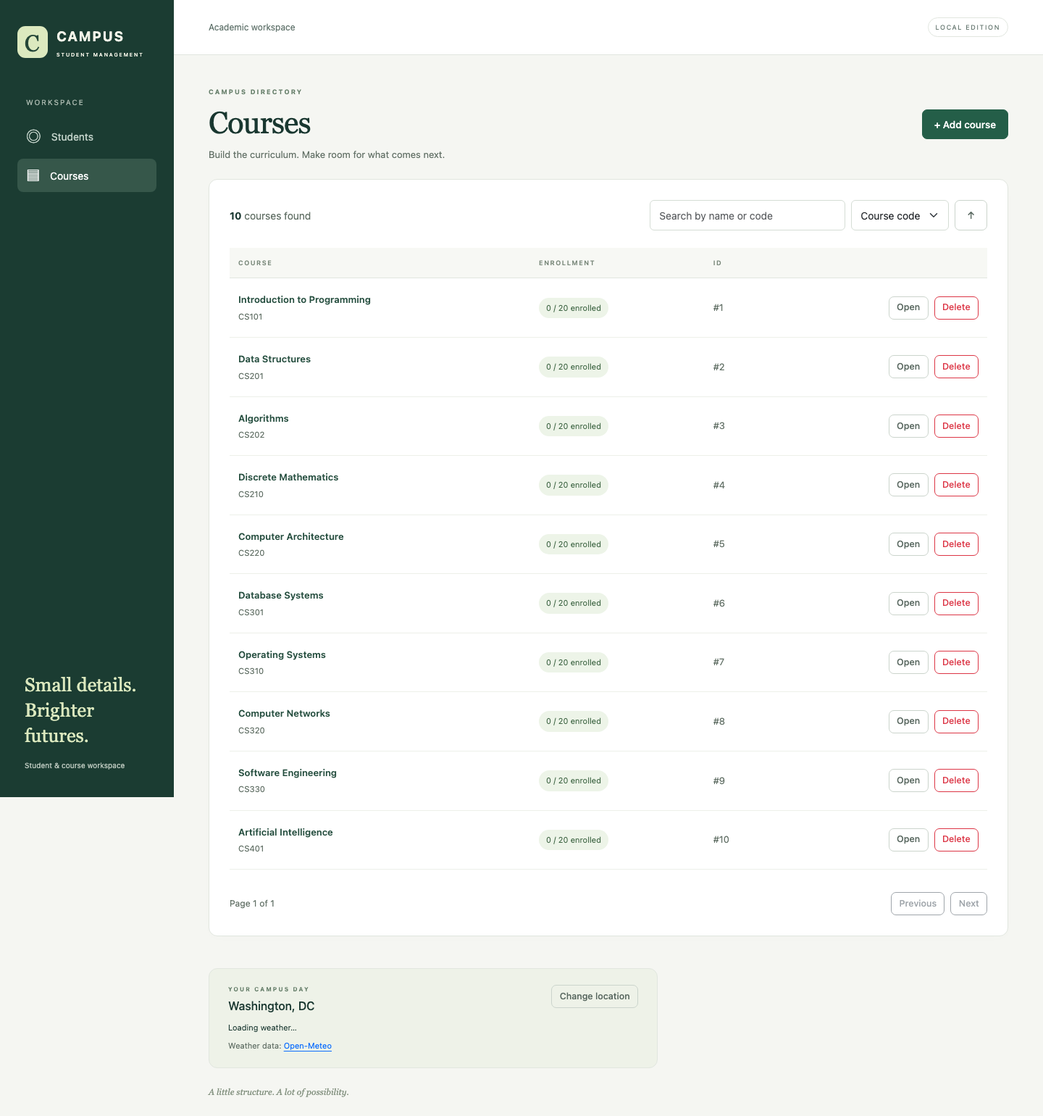
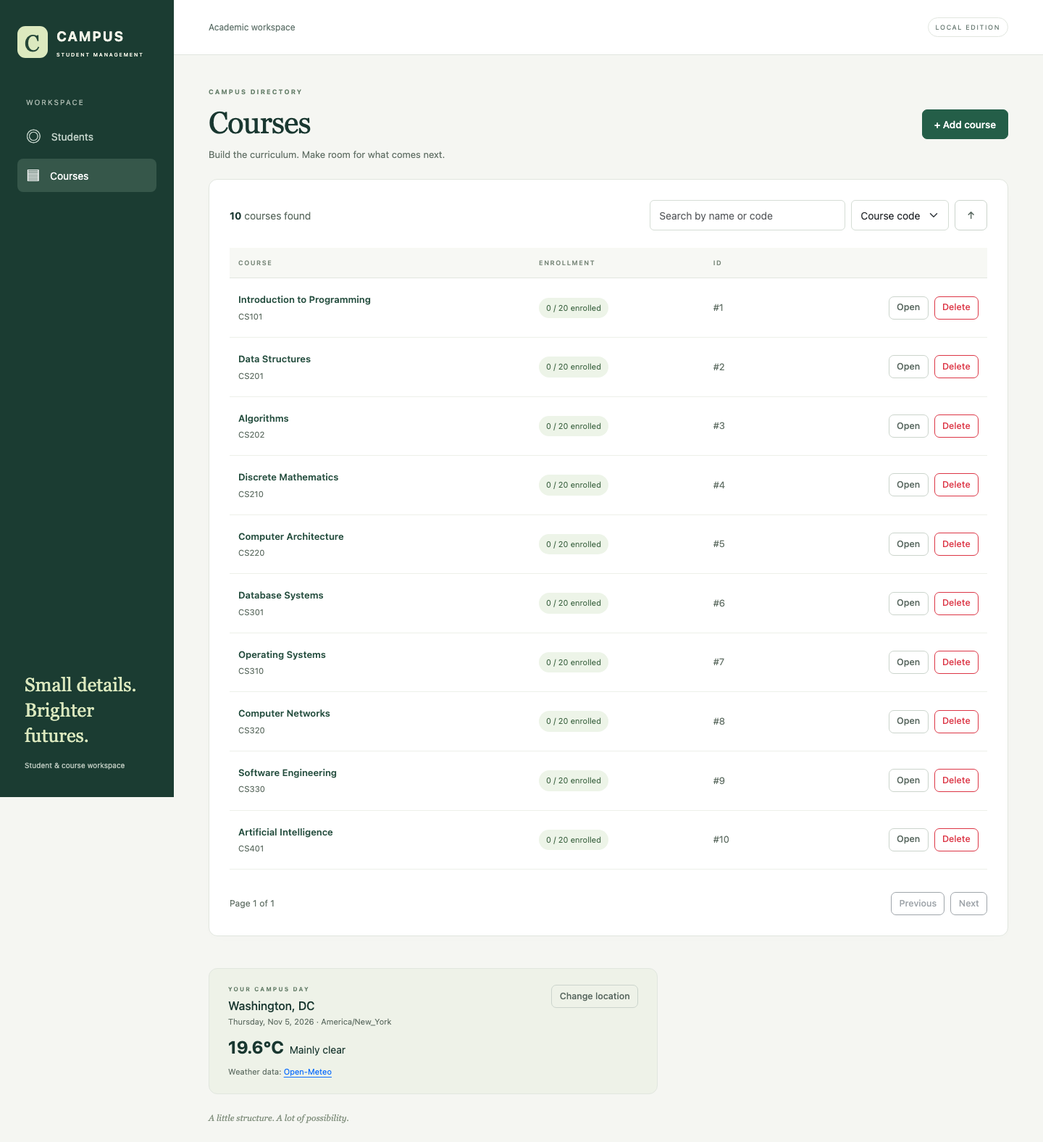
Address independent panel feedback and record final review votes

diff --git a/frontend/e2e/workspace.spec.ts b/frontend/e2e/workspace.spec.ts
@@ -351,3 +351,66 @@ test('a manual city choice wins over an earlier pending browser location request
     page.getByRole('heading', { name: 'Seattle, Washington', exact: true }),
   ).toBeVisible();
 });
+
+test('pending create blocks tab and directory navigation until the response completes', async ({
+  page,
+  request,
+}) => {
+  const stamp = Date.now();
+  const existing = await (
+    await request.post('/api/students', {
+      data: { name: 'Existing work tab', email: `existing-tab${stamp}@example.com` },
+    })
+  ).json();
+  let createdId: number | undefined;
+  let releaseResponse!: () => void;
+  let markRequestReceived!: () => void;
+  const responseGate = new Promise<void>((resolve) => {
+    releaseResponse = resolve;
+  });
+  const requestReceived = new Promise<void>((resolve) => {
+    markRequestReceived = resolve;
+  });
+  await page.route('**/api/students', async (route) => {
+    if (route.request().method() !== 'POST') {
+      await route.continue();
+      return;
+    }
+    const response = await route.fetch();
+    createdId = (await response.json()).id;
+    markRequestReceived();
+    await responseGate;
+    await route.fulfill({ response });
+  });
+  try {
+    await page.goto(`/students/${existing.id}`);
+    await expect(page.getByLabel('Full name')).toHaveValue('Existing work tab');
+    await page.getByRole('link', { name: '← All students' }).click();
+    await page.getByRole('link', { name: '+ Add student' }).click();
+    await page.getByLabel('Full name').fill('Pending create');
+    await page.getByRole('textbox', { name: /^Email/ }).fill(`pending${stamp}@example.com`);
+    await page.getByRole('button', { name: 'Create student', exact: true }).click();
+    await requestReceived;
+    await expect(page.getByRole('button', { name: 'Saving…', exact: true })).toBeDisabled();
+    await expect(page.getByRole('button', { name: 'Close tab', exact: true })).toBeDisabled();
+    await page
+      .getByRole('navigation', { name: 'Open work tabs' })
+      .getByRole('link', { name: 'Existing work tab', exact: true })
+      .click();
+    await expect(page).toHaveURL(/\/students\/new$/);
+    await page
+      .getByRole('navigation', { name: 'Main navigation' })
+      .getByRole('link', { name: 'Students' })
+      .click();
+    await expect(page).toHaveURL(/\/students\/new$/);
+    releaseResponse();
+    await expect(page).toHaveURL(new RegExp(`/students/${createdId}$`));
+    await expect(page.getByLabel('Full name')).toHaveValue('Pending create');
+    await expect(page.getByRole('button', { name: 'Close tab', exact: true })).toBeEnabled();
+    await expect(page.getByRole('button', { name: 'Save changes', exact: true })).toBeDisabled();
+  } finally {
+    releaseResponse();
+    if (createdId !== undefined) await request.delete(`/api/students/${createdId}`);
+    await request.delete(`/api/students/${existing.id}`);
+  }
+});

diff --git a/backend/src/main/java/com/example/students/ManagementService.java b/backend/src/main/java/com/example/students/ManagementService.java
@@ -26,7 +26,9 @@ public class ManagementService {
   }
 
   public PageView<CourseView> courses(String q, Pageable page) {
-    return PageView.of(courses.search(q, page).map(this::view));
+    var result = courses.search(q, page);
+    var counts = courseCounts(result.getContent().stream().map(c -> c.id).toList());
+    return PageView.of(result.map(c -> view(c, counts.getOrDefault(c.id, 0L))));
   }
 
   public StudentView student(Long id) {
@@ -108,12 +110,16 @@ public class ManagementService {
 
   public List<EnrollmentView> studentCourses(Long id) {
     requireStudent(id);
-    return enrollments.findByStudentIdOrderById(id).stream().map(this::view).toList();
+    var result = enrollments.findByStudentIdOrderById(id);
+    var counts = courseCounts(result.stream().map(e -> e.course.id).distinct().toList());
+    return result.stream()
+        .map(e -> view(e, view(e.course, counts.getOrDefault(e.course.id, 0L))))
+        .toList();
   }
 
   public List<EnrollmentView> courseStudents(Long id) {
-    requireCourse(id);
-    return enrollments.findByCourseIdOrderById(id).stream().map(this::view).toList();
+    var course = view(requireCourse(id));
+    return enrollments.findByCourseIdOrderById(id).stream().map(e -> view(e, course)).toList();
   }
 
   private Student requireStudent(Long id) {
@@ -124,12 +130,27 @@ public class ManagementService {
     return courses.findById(id).orElseThrow(() -> DomainException.missing("Course"));
   }
 
+  private Map<Long, Long> courseCounts(List<Long> ids) {
+    if (ids.isEmpty()) return Map.of();
+    Map<Long, Long> counts = new HashMap<>();
+    for (var count : enrollments.countForCourses(ids))
+      counts.put(count.getCourseId(), count.getTotal());
+    return counts;
+  }
+
   private CourseView view(Course c) {
-    return new CourseView(
-        c.id, c.code, c.name, c.description, c.capacity, enrollments.countByCourseId(c.id));
+    return view(c, enrollments.countByCourseId(c.id));
+  }
+
+  private CourseView view(Course c, long enrolledCount) {
+    return new CourseView(c.id, c.code, c.name, c.description, c.capacity, enrolledCount);
   }
 
   private EnrollmentView view(Enrollment e) {
-    return new EnrollmentView(e.id, StudentView.of(e.student), view(e.course), e.enrolledAt);
+    return view(e, view(e.course));
+  }
+
+  private EnrollmentView view(Enrollment e, CourseView course) {
+    return new EnrollmentView(e.id, StudentView.of(e.student), course, e.enrolledAt);
   }
 }

diff --git a/backend/src/test/java/com/example/students/ManagementServiceTest.java b/backend/src/test/java/com/example/students/ManagementServiceTest.java
@@ -4,11 +4,14 @@ import static com.example.students.ApiModels.*;
 import static org.junit.jupiter.api.Assertions.*;
 import static org.mockito.Mockito.*;
 
+import java.util.List;
 import java.util.Optional;
 import org.junit.jupiter.api.*;
 import org.junit.jupiter.api.extension.ExtendWith;
 import org.mockito.*;
 import org.mockito.junit.jupiter.MockitoExtension;
+import org.springframework.data.domain.PageImpl;
+import org.springframework.data.domain.PageRequest;
 
 @ExtendWith(MockitoExtension.class)
 class ManagementServiceTest {
@@ -73,5 +76,35 @@ class ManagementServiceTest {
     assertEquals(
         "Student not found.",
         assertThrows(DomainException.class, () -> service.student(99L)).getMessage());
+  }
+
+  @Test
+  void courseDirectoryBatchesCountsAndIncludesEmptyCourses() {
+    var empty = new Course("CS2", "Empty", "", 20);
+    empty.id = 3L;
+    var page = PageRequest.of(0, 10);
+    when(courses.search("", page)).thenReturn(new PageImpl<>(List.of(course, empty), page, 2));
+    var count = mock(EnrollmentRepository.CourseEnrollmentCount.class);
+    when(count.getCourseId()).thenReturn(2L);
+    when(count.getTotal()).thenReturn(1L);
+    when(enrollments.countForCourses(List.of(2L, 3L))).thenReturn(List.of(count));
+    var result = service.courses("", page).content();
+    assertEquals(1, result.get(0).enrolledCount());
+    assertEquals(0, result.get(1).enrolledCount());
+    verify(enrollments, never()).countByCourseId(anyLong());
+  }
+
+  @Test
+  void courseRosterCountsItsCourseOnlyOnce() {
+    var second = new Student("Grace", "grace@example.com");
+    second.id = 3L;
+    when(courses.findById(2L)).thenReturn(Optional.of(course));
+    when(enrollments.countByCourseId(2L)).thenReturn(2L);
+    when(enrollments.findByCourseIdOrderById(2L))
+        .thenReturn(List.of(new Enrollment(student, course), new Enrollment(second, course)));
+    var result = service.courseStudents(2L);
+    assertEquals(2, result.size());
+    assertTrue(result.stream().allMatch(e -> e.course().enrolledCount() == 2));
+    verify(enrollments, times(1)).countByCourseId(2L);
   }
 }

diff --git a/backend/src/test/java/com/example/students/ManagementIntegrationTest.java b/backend/src/test/java/com/example/students/ManagementIntegrationTest.java
@@ -178,4 +178,37 @@ class ManagementIntegrationTest {
         .andExpect(status().isBadRequest());
     assertEquals(0, courses.count());
   }
+
+  @Test
+  void aggregateCountsStayCorrectAcrossDirectoriesEnrollmentsAndWithdrawal() {
+    var ada = student("Ada");
+    var grace = student("Grace");
+    var enrolled = course(20);
+    var empty = service.saveCourse(null, new CourseInput("CS2", "Empty course", "", 20));
+    service.enroll(ada.id(), enrolled.id());
+    service.enroll(grace.id(), enrolled.id());
+    var directory =
+        service.courses("", org.springframework.data.domain.PageRequest.of(0, 10)).content();
+    assertEquals(
+        2,
+        directory.stream()
+            .filter(c -> c.id().equals(enrolled.id()))
+            .findFirst()
+            .orElseThrow()
+            .enrolledCount());
+    assertEquals(
+        0,
+        directory.stream()
+            .filter(c -> c.id().equals(empty.id()))
+            .findFirst()
+            .orElseThrow()
+            .enrolledCount());
+    assertEquals(2, service.studentCourses(ada.id()).getFirst().course().enrolledCount());
+    assertTrue(
+        service.courseStudents(enrolled.id()).stream()
+            .allMatch(e -> e.course().enrolledCount() == 2));
+    service.withdraw(grace.id(), enrolled.id());
+    assertEquals(1, service.studentCourses(ada.id()).getFirst().course().enrolledCount());
+    assertEquals(1, service.courseStudents(enrolled.id()).getFirst().course().enrolledCount());
+  }
 }

diff --git a/backend/src/main/java/com/example/students/EnrollmentRepository.java b/backend/src/main/java/com/example/students/EnrollmentRepository.java
@@ -7,6 +7,17 @@ import org.springframework.data.jpa.repository.*;
 public interface EnrollmentRepository extends JpaRepository<Enrollment, Long> {
   long countByCourseId(Long id);
 
+  interface CourseEnrollmentCount {
+    Long getCourseId();
+
+    long getTotal();
+  }
+
+  @Query(
+      "select e.course.id as courseId, count(e) as total from Enrollment e where e.course.id in"
+          + " :courseIds group by e.course.id")
+  List<CourseEnrollmentCount> countForCourses(List<Long> courseIds);
+
   boolean existsByStudentIdAndCourseId(Long studentId, Long courseId);
 
   Optional<Enrollment> findByStudentIdAndCourseId(Long studentId, Long courseId);

diff --git a/docs/PANEL_REVIEW.md b/docs/PANEL_REVIEW.md
@@ -1,0 +1,52 @@
+# Independent agent panel review
+
+Reviewed on November 5, 2026. Four separate review agents inspected the submission, returned their own findings and votes, then re-reviewed the corrections. They represent the requested hiring-panel roles; they are **not human employees or an actual employer's hiring committee**. The implementing agent coordinated corrections and recorded the results below.
+
+Initial source baseline: `58f33f6`. Final reviews inspected the working-tree corrections relative to that baseline, including the source, tests, documentation, and screenshots committed alongside this report. No reviewer was required to return a positive vote.
+
+## Votes
+
+| Role / review agent                            | Initial vote                | Final vote                                                       | Scope of final approval                                                                                                                  |
+| ---------------------------------------------- | --------------------------- | ---------------------------------------------------------------- | ---------------------------------------------------------------------------------------------------------------------------------------- |
+| CTO / `cto_review`                             | Approve with minor comments | **Approve for code readiness**                                   | No blocking code findings remain for the agreed 48-hour scope. Delivery is not yet fully complete.                                       |
+| Technical Recruiter / `recruiter_review`       | Approve with minor comments | **Approve**                                                      | No outstanding presentation or onboarding defects found in the current local submission. Public source delivery must still be confirmed. |
+| Senior Software Developer / `developer_review` | Approve with minor comments | **Approve**                                                      | Both developer comments resolved; no unresolved developer-review conditions for the agreed scope.                                        |
+| Senior Architect / `architect_review`          | Approve with minor comments | **Approve — strong architectural approval for the agreed scope** | Repeated-count finding resolved; no new architectural blocker found.                                                                     |
+
+These are approvals of the reviewed code and local submission quality. They do not certify successful GitHub publication, Docker execution, hosted CI, or a hiring outcome.
+
+## Findings accepted and corrected
+
+| Review finding                                                       | Raised by                 | Correction                                                                                                                                                                               | Verification / disposition                                                                                                                                                                                                                           |
+| -------------------------------------------------------------------- | ------------------------- | ---------------------------------------------------------------------------------------------------------------------------------------------------------------------------------------- | ---------------------------------------------------------------------------------------------------------------------------------------------------------------------------------------------------------------------------------------------------- |
+| Repeated enrollment counts when mapping courses and rosters          | CTO, Developer, Architect | Grouped count projection for course pages and student-course lists; one shared course view for each course roster.                                                                       | New unit tests check that directory mapping does not issue per-course counts and the roster counts once. Integration test covers zero/multiple enrollments and updated counts after withdrawal. Architect and Developer marked the finding resolved. |
+| Missing regression for navigation while a create response is pending | Developer                 | Added a Playwright case that delays an actual create response, attempts work-tab and directory navigation, then releases the response and checks the new record URL, form, and controls. | Passed. The initially suspected navigation defect was independently investigated and **disproved**; the existing guard worked. This was a coverage improvement, not a claimed bug fix.                                                               |
+| Local startup alternative was too easy to miss                       | Recruiter                 | Added a prominent startup-path choice with a direct link to local Java/Node instructions, alongside the Docker path and its verification limit.                                          | Recruiter re-read the README and marked the finding resolved.                                                                                                                                                                                        |
+| Screenshots captured loading weather and omitted editor/work tabs    | Recruiter                 | Refreshed desktop/mobile images after real weather completed; added a student editor screenshot showing two tabs and an enrollment.                                                      | Recruiter inspected all three images and marked the finding resolved. Temporary screenshot data was deleted afterward.                                                                                                                               |
+| Missing executed Docker evidence                                     | CTO, Architect, Recruiter | Retained explicit limitation; supplied Docker health checks and a CI smoke job without claiming it has run.                                                                              | **Open delivery check**, not an identified application defect. Full container build/startup and persistence still require an engine or successful hosted CI.                                                                                         |
+
+## Evidence and reviewer independence
+
+The Developer independently executed the initial **19 backend**, **13 frontend**, and **10 Playwright** tests; all passed. Its first backend attempt encountered sandbox restrictions on Mockito attachment and passed when rerun with the required execution permissions. It also performed an additional real-browser deferred-save check that disproved the suspected navigation race. The CTO separately executed the **13 frontend unit tests** successfully.
+
+After corrections, the implementing agent executed:
+
+| Check                                             | Result                                                                    |
+| ------------------------------------------------- | ------------------------------------------------------------------------- |
+| Maven `verify`                                    | **22 passed**, executable JAR packaged                                    |
+| Frontend unit tests                               | **13 passed**                                                             |
+| Playwright end-to-end tests                       | **11 passed**                                                             |
+| Production Angular build                          | **Passed**                                                                |
+| Playwright TypeScript check                       | **Passed**                                                                |
+| Actual screenshot capture                         | Completed weather; editor/tabs/enrollment visible; no browser page errors |
+| Public repository metadata without authentication | Accessible; `private: false`                                              |
+
+The final reviewers inspected the correction and these fresh logs. They did not all independently repeat those final executions. The Architect's work was source/configuration review plus log inspection; the Recruiter's work was documentation, source/test-definition, screenshot, and submission review. No reviewer claimed to run Docker.
+
+## Delivery conditions still open
+
+1. **Commit and push the reviewed revision, then confirm it is publicly available.** The repository exists publicly, but the reviewed metadata reported `size: 0`; existence is not evidence that these commits have been uploaded. Git pushes have been blocked by missing machine credentials.
+2. **Execute Docker build/startup and restart-persistence verification.** Compose schema validation and architecture metadata checks passed, but no Docker Engine is available locally. The supplied CI smoke job has not been observed running.
+3. **Observe hosted CI results after publication.** Local passing results are not a claim that GitHub Actions is green.
+
+The CTO specifically separated code readiness from these delivery checks. The other reviewers likewise treated authentication and unavailable Docker as delivery limitations rather than inventing code defects or rejecting the agreed small-project architecture.

diff --git a/docs/REVIEW.md b/docs/REVIEW.md
@@ -1,15 +1,15 @@
 # Review, corrections, and verification
 
-This document records a self-review of the agreed 48-hour take-home scope. The four perspectives below are review criteria, not independent reviewer approvals or a hiring decision. The earlier simulated “Strong pass” votes have been removed: an assessment should be supported by findings and executed checks.
+This document records the implementing agent's self-review and executed verification. A subsequent panel of four separate review agents has now inspected the project, raised findings, and re-reviewed corrections. Their actual votes, evidence, and remaining delivery conditions are recorded in [Independent agent panel review](PANEL_REVIEW.md). Earlier unsupported simulated votes were removed and are not the basis for the panel results.
 
 ## Panel perspectives
 
-| Perspective               | Review focus                                                                    | Assessment after corrections                                                                                                                                                                                                                                               |
-| ------------------------- | ------------------------------------------------------------------------------- | -------------------------------------------------------------------------------------------------------------------------------------------------------------------------------------------------------------------------------------------------------------------------- |
-| CTO                       | Complete workflows, reasonable scope, and reproducible delivery.                | The agreed features are implemented. Docker readiness and a container smoke-test CI job are included; local container execution and remote publication remain unverified.                                                                                                  |
-| Technical recruiter       | A reviewer can understand and run the submission.                               | The README contains course introductions, the stack, actual Java service classes, database tables, Docker installation/start/stop steps, and Playwright commands. GitHub authentication is still needed to publish the commits.                                            |
-| Senior software developer | Data correctness, asynchronous UI behavior, validation, and regression tests.   | The review found and corrected stale-request races, a query-string tab-close defect, missing strict compiler settings, fractional-capacity coercion, and a delayed-location race. Regression tests cover these cases.                                                      |
-| Senior architect          | Clear persistence boundaries, transaction safety, and proportionate complexity. | Spring Data JPA/Hibernate, three business tables, service transactions, database constraints, and course row locks fit the assignment. Per-course count queries, in-memory drafts, last-write-wins edits, and unpaginated rosters remain explicit small-project tradeoffs. |
+| Perspective               | Review focus                                                                    | Assessment after corrections                                                                                                                                                                                                                                                                     |
+| ------------------------- | ------------------------------------------------------------------------------- | ------------------------------------------------------------------------------------------------------------------------------------------------------------------------------------------------------------------------------------------------------------------------------------------------ |
+| CTO                       | Complete workflows, reasonable scope, and reproducible delivery.                | The agreed features are implemented. Docker readiness and a container smoke-test CI job are included; local container execution and remote publication remain unverified.                                                                                                                        |
+| Technical recruiter       | A reviewer can understand and run the submission.                               | The README contains course introductions, the stack, actual Java service classes, database tables, Docker installation/start/stop steps, and Playwright commands. GitHub authentication is still needed to publish the commits.                                                                  |
+| Senior software developer | Data correctness, asynchronous UI behavior, validation, and regression tests.   | The review found and corrected stale-request races, a query-string tab-close defect, missing strict compiler settings, fractional-capacity coercion, and a delayed-location race. Regression tests cover these cases.                                                                            |
+| Senior architect          | Clear persistence boundaries, transaction safety, and proportionate complexity. | Spring Data JPA/Hibernate, three business tables, service transactions, database constraints, and course row locks fit the assignment. Batched count queries now avoid per-row counts. In-memory drafts, last-write-wins edits, and unpaginated rosters remain explicit small-project tradeoffs. |
 
 ## Findings and corrections
 
@@ -36,11 +36,11 @@ Local verification on November 5, 2026 uses Java 21.0.13 and Node 22.23.4. Resul
 
 | Check                           | Result                                                                                                  |
 | ------------------------------- | ------------------------------------------------------------------------------------------------------- |
-| Maven `verify`                  | **19 tests passed**, executable JAR packaged                                                            |
+| Maven `verify`                  | **22 tests passed**, executable JAR packaged                                                            |
 | Frontend `npm test`             | **13 tests passed**, including controlled asynchronous HTTP regressions                                 |
 | Angular production build        | **Passed** with strict TypeScript and strict templates; approximately 124 kB estimated initial transfer |
 | Playwright source type-check    | **Passed**                                                                                              |
-| Playwright / Chromium           | **10 tests passed** against Spring and in-memory H2                                                     |
+| Playwright / Chromium           | **11 tests passed** against Spring and in-memory H2                                                     |
 | README local links              | **Passed**, local README and development links resolve                                                  |
 | Standalone Compose schema check | **Passed**, Compose 5.7.0 `config --quiet`; no engine required                                          |
 | Official Docker image metadata  | All four selected base tags publish Linux ARM64 and AMD64 images                                        |
@@ -59,4 +59,4 @@ Browser tests use the real Angular app, Spring API, and an isolated in-memory H2
 - Pushes have failed because this machine has no GitHub credentials. Public repository visibility does not mean these source commits have been uploaded.
 - No hosted GitHub Actions result has been observed.
 - Mobile checks use Chromium emulation, not physical iOS/Android devices. Accessibility includes labels, required-field semantics, focus states, keyboard-accessible dialogs, and a skip link; no formal accessibility audit is claimed.
-- No independent hiring-panel review has been received. The project is ready for that review once publication is unblocked; subsequent actual feedback should be recorded with its correction and verification evidence.
+- Four independent review agents have completed code/submission review and re-review. See [the panel report](PANEL_REVIEW.md) for their actual votes and limitations. These are agent reviews, not a real employer hiring decision.

diff --git a/README.md b/README.md
@@ -4,6 +4,8 @@ A full-stack take-home project for managing students, courses, and enrollments. 
 
 ![Course directory](docs/courses-desktop.png)
 
+![Student editor with open work tabs and an enrollment](docs/student-workspace.png)
+
 ## Courses
 
 These original computer science courses are seeded once, each with **20 seats**. Users can add, edit, and delete courses and change capacity. Duplicate enrollment is rejected; capacity cannot be reduced below current enrollment. Deleting a student or course removes its enrollments and preserves records on the other side.
@@ -59,6 +61,13 @@ Flyway creates and versions the schema; Hibernate validates the entity mappings 
 | `enrollments`  | `id`, `student_id`, `course_id`, `enrolled_at`  | Student/course association; each student/course pair is unique. |
 
 The association table supports both “a student's courses” and “a course's students.” IDs are database-generated. Transactions and course row locks prevent overbooking. Flyway also maintains its own `flyway_schema_history` metadata table.
+
+## Choose a startup path
+
+- **Docker:** follow the installation and startup instructions below. This builds Java, Angular, and H2 inside containers.
+- **Local Java / Node:** follow [Run locally](docs/DEVELOPMENT.md#run-locally) using Java 21 and Node 22.22.3+ (22.x). This path has been exercised locally.
+
+Docker schema validation passed; a full container build still requires Docker Engine and has not been executed in this environment.
 
 ## Install Docker
 
@@ -126,4 +135,4 @@ On Windows PowerShell, use `.\mvnw.cmd verify` in place of `./mvnw verify`.
 
 Playwright automatically starts and stops isolated servers on **4201 / 8081** with a fresh **in-memory database**. It does not use the Docker deployment or modify its data. Weather responses are stubbed for reproducibility; the application's CRUD requests use the real backend. Failed tests save screenshots and traces under `frontend/test-results/`.
 
-For non-Docker development, backend/frontend unit tests, and the full REST reference, see [development instructions](docs/DEVELOPMENT.md). See [verification notes](docs/REVIEW.md) for executed checks and limits. Docker configuration is provided; container builds have not been verified in this environment.
+For non-Docker development, backend/frontend unit tests, and the full REST reference, see [development instructions](docs/DEVELOPMENT.md). See [verification notes](docs/REVIEW.md) and the [independent agent panel review](docs/PANEL_REVIEW.md) for executed checks, actual review votes, and remaining delivery conditions. Docker configuration is provided; container builds have not been verified in this environment.

diff --git a/docs/DEVELOPMENT.md b/docs/DEVELOPMENT.md
@@ -162,4 +162,4 @@ Page numbers start at zero; page size defaults to 10 and is capped at 100. Allow
 
 ## Deliberate scope
 
-This is a local take-home project: no login, authorization, cloud deployment, global state framework, or microservices. Authentication was explicitly excluded. H2 keeps reviewer setup small. Editing uses last successful write wins; enrollment capacity is protected transactionally. Counts are queried per course for simplicity at this scale; a production-sized catalog would use aggregate projections and paginated rosters. External weather is an optional enhancement with independent availability.
+This is a local take-home project: no login, authorization, cloud deployment, global state framework, or microservices. Authentication was explicitly excluded. H2 keeps reviewer setup small. Editing uses last successful write wins; enrollment capacity is protected transactionally. Course lists and student-course lists use batched enrollment counts; course rosters reuse one course view. A production-sized catalog would also paginate rosters. External weather is an optional enhancement with independent availability.
